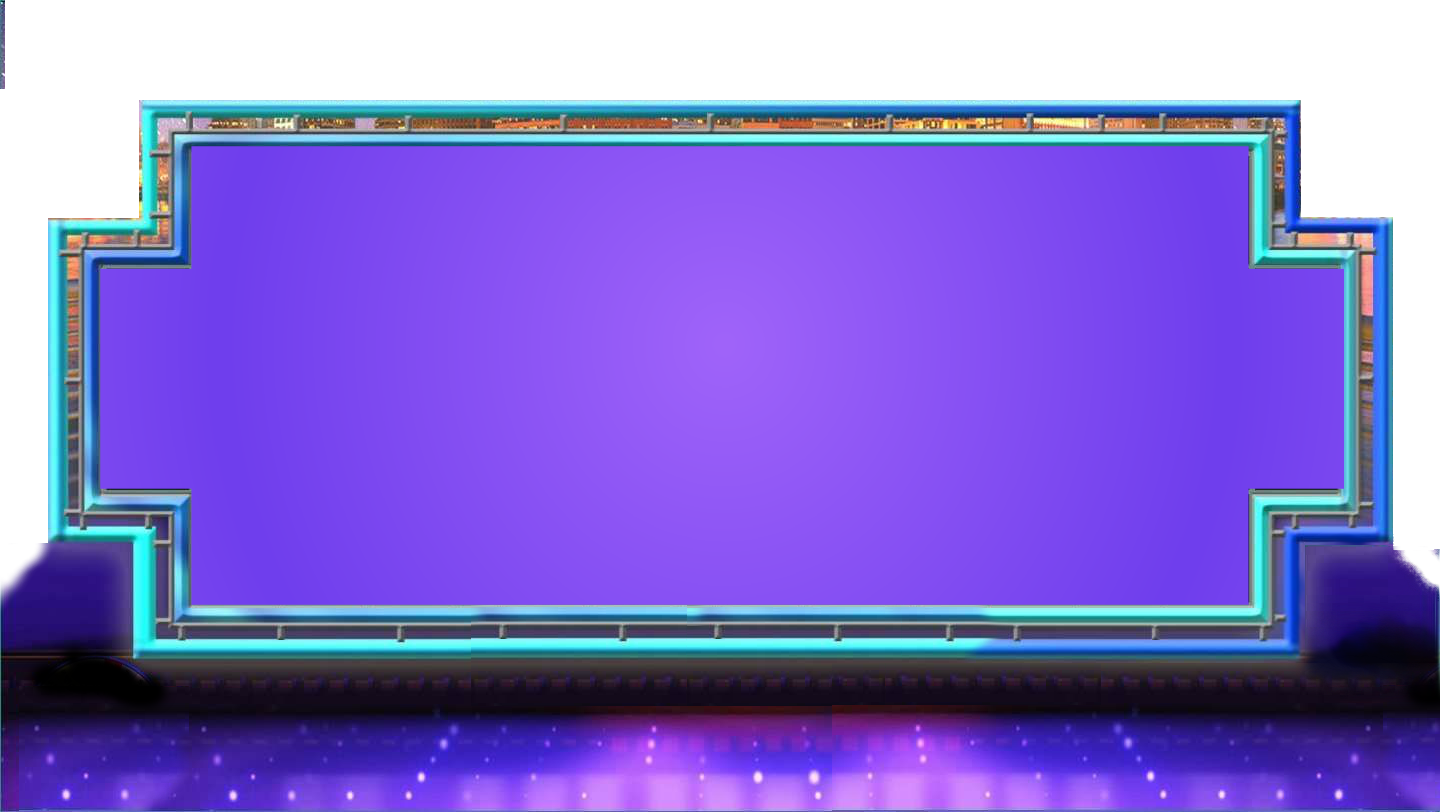
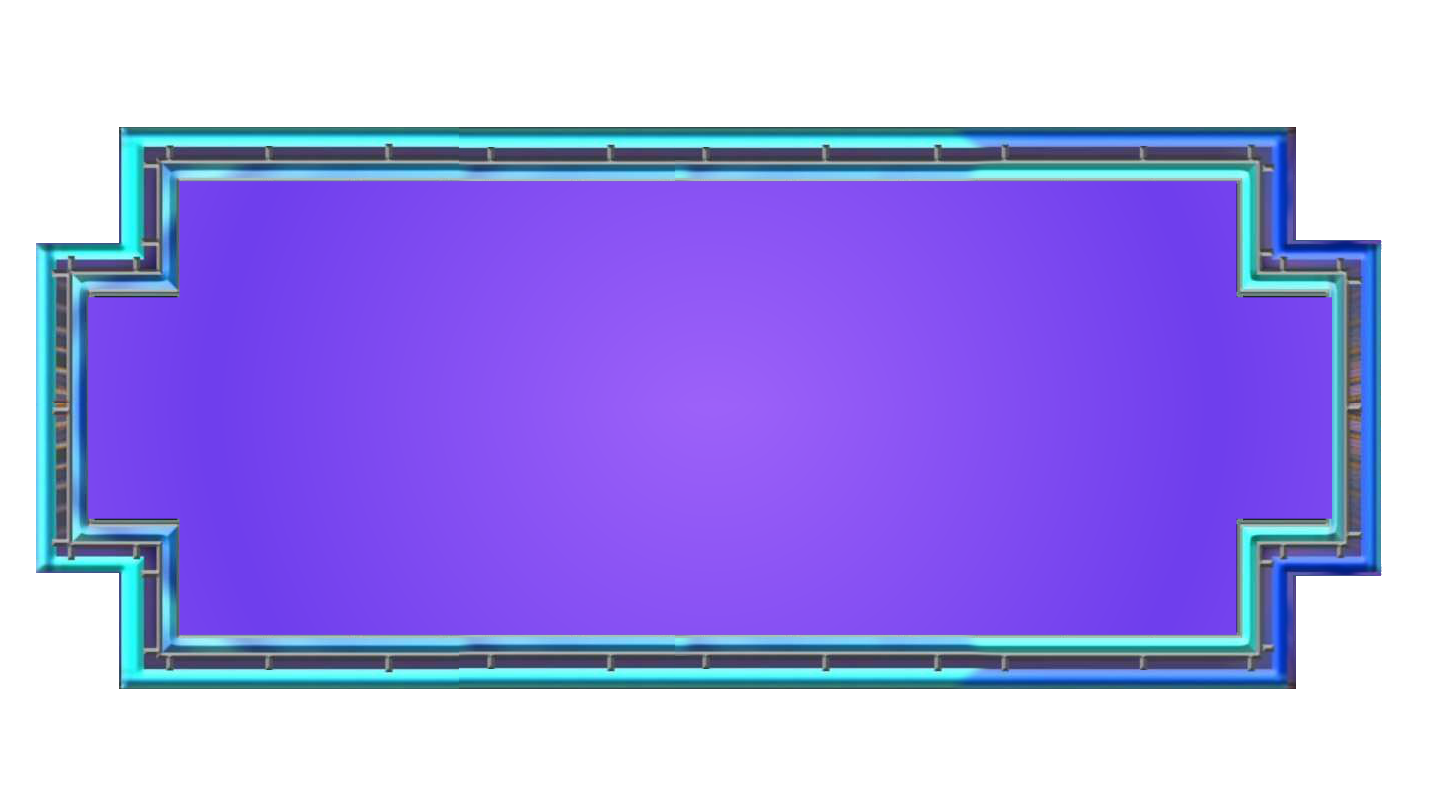
Removed skyline img, uploading new blankboard.png

diff --git a/testingforwof.html b/testingforwof.html
@@ -4,13 +4,9 @@
     <title>Play Wheel of Fortune</title>
     <link rel="stylesheet" href="https://use.fontawesome.com/releases/v5.7.0/css/all.css" integrity="sha384-lZN37f5QGtY3VHgisS14W3ExzMWZxybE1SJSEsQp9S+oqd12jhcu+A56Ebc1zFSJ" crossorigin="anonymous">
     <style>
-      body {
-      background-image: url("imgs/skyline.jpg");
-      }
       * {
         box-sizing: border-box;
       }
-
       .column {
         float: left;
         width: 33.33%;
@@ -65,6 +61,7 @@
   <button type="button" onclick="alert('Pay $250 for every revealed vowel. If there are none of your selected vowel, you lose $250.')">Buy a Vowel</button>
 
   <button type="button" onclick="alert('Hello world!')">Spin</button>
+
   <button type="button" onclick="alert('Do you know the answer?')">Solve!</button>
   </body>
 </html>
